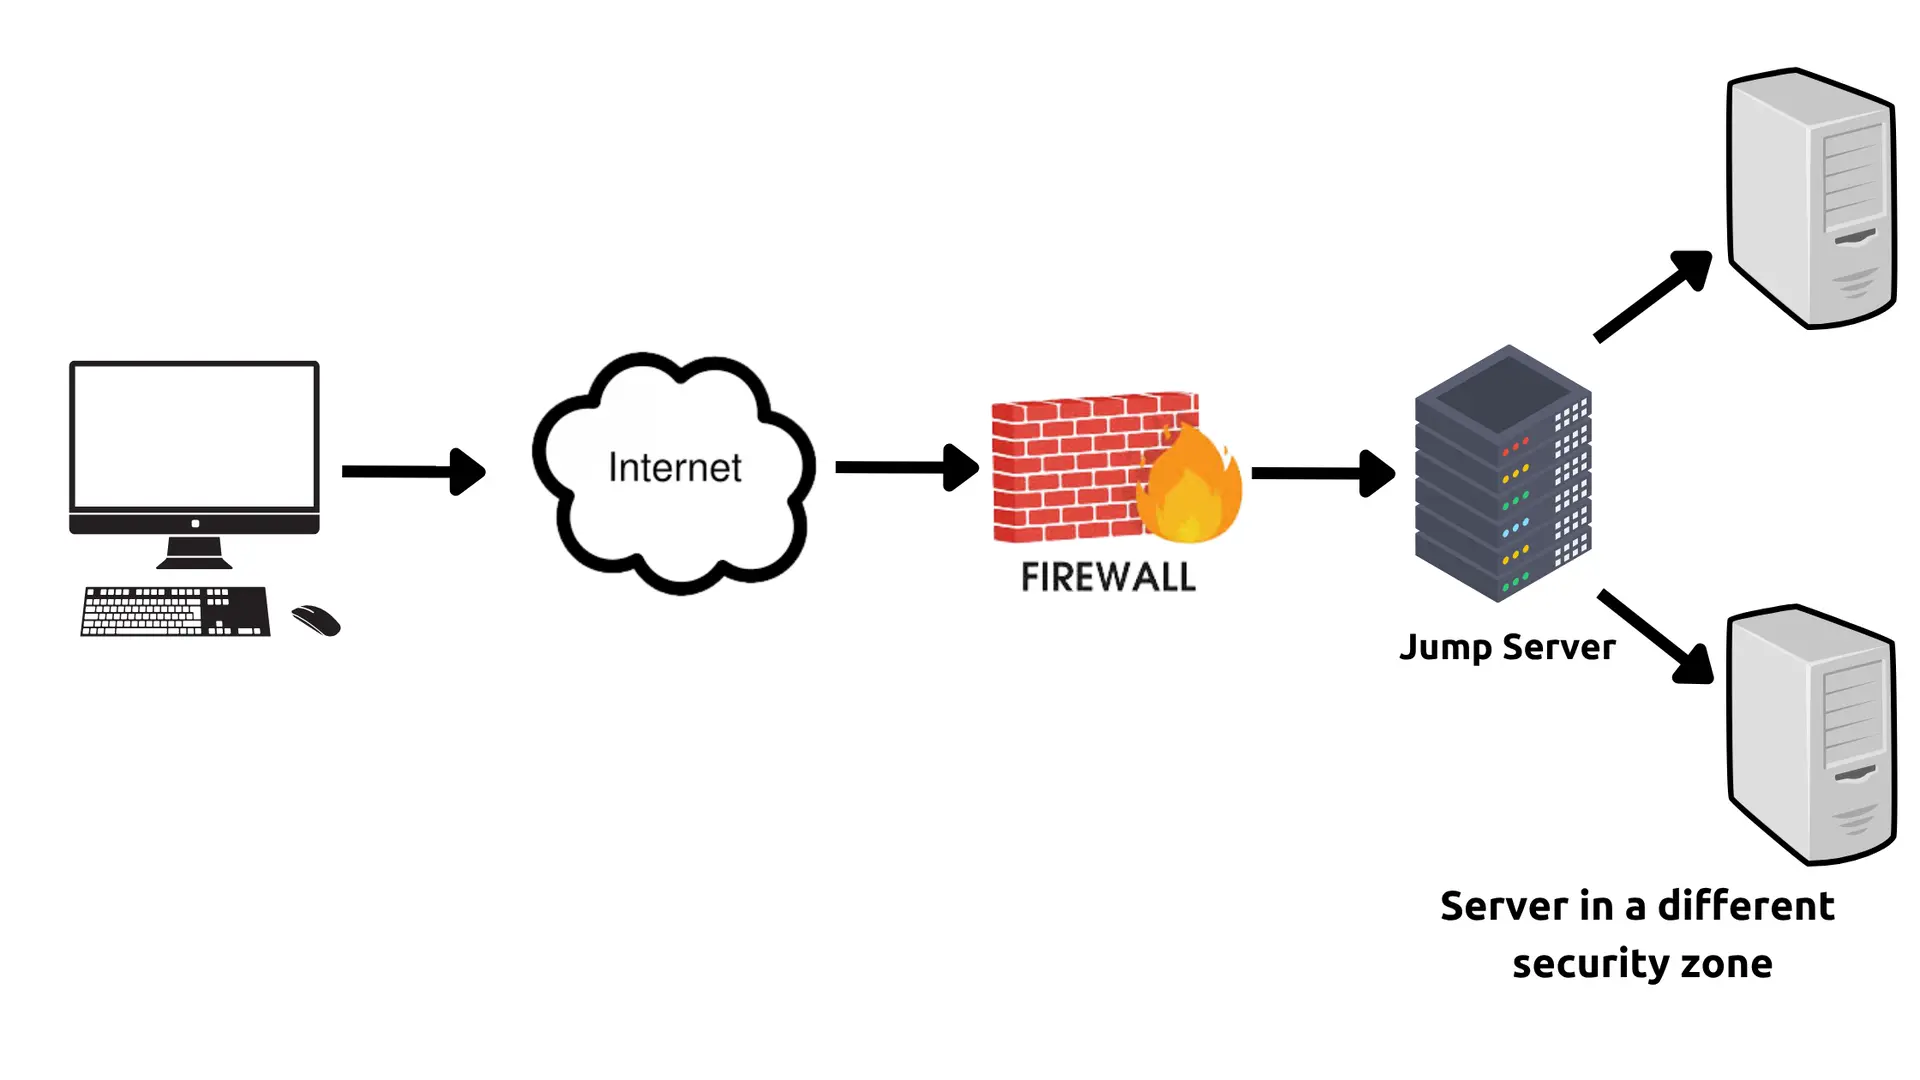
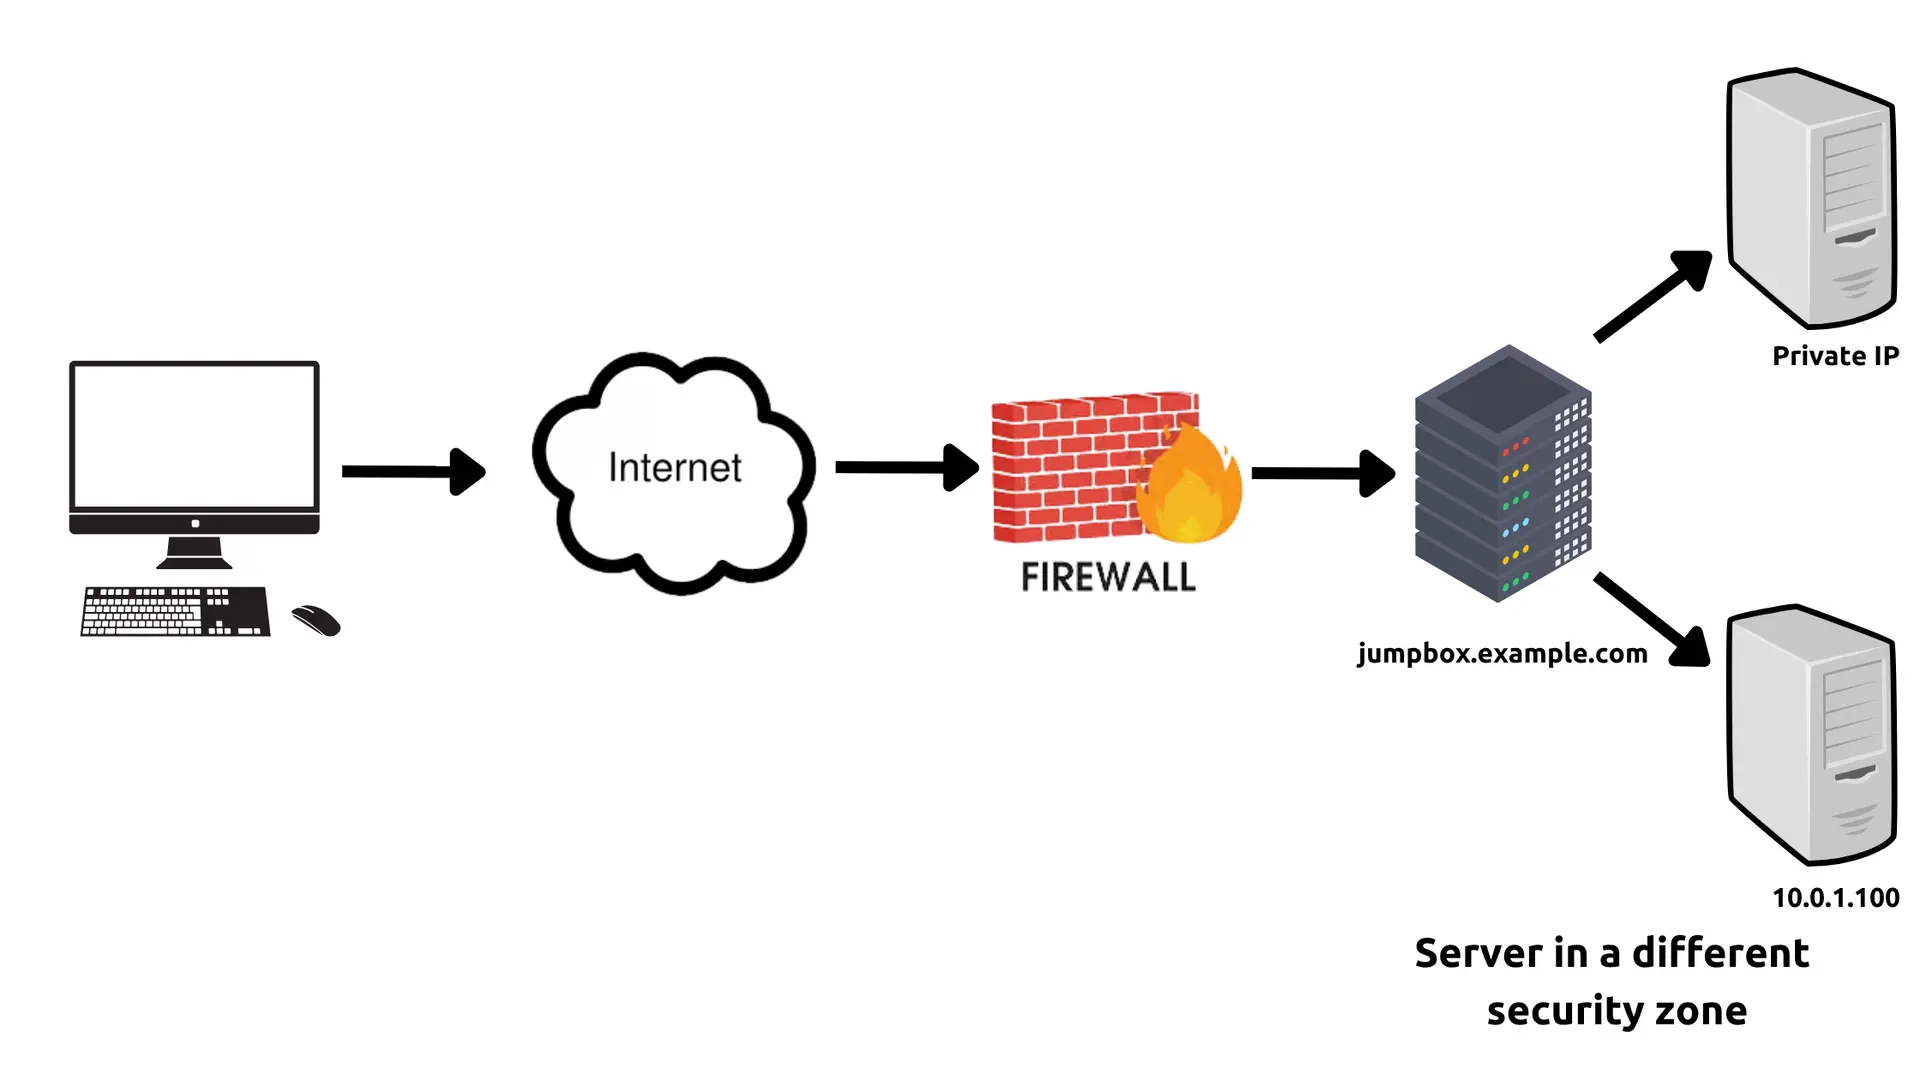
Update "What is a Jumpbox and How it Helps in Remote Access" article with additional use case for IoT device management and relevant guide link

Changed region(s): [[0.7188, 0.825, 1.0, 0.9472], [0.7188, 0.5194, 0.9062, 0.6417], [0.9062, 0.3056, 1.0, 0.3361]]

diff --git a/content/blog/what_is_a_jumpbox_and_how_it_helps_in_remote_access.md b/content/blog/what_is_a_jumpbox_and_how_it_helps_in_remote_access.md
@@ -135,7 +135,7 @@ Jumpboxes are particularly valuable in several scenarios:
 
 While traditional jumpboxes are effective, modern tunneling services like {{< link href="https://pinggy.io" >}}Pinggy{{< /link >}} offer alternative approaches to secure remote access. These services can create secure tunnels without requiring dedicated jumpbox infrastructure, making them particularly useful for development environments and temporary access needs.
 
-Tunneling services provide similar security benefits while reducing the operational overhead of maintaining dedicated jumpbox servers. They're especially valuable when you need quick, secure access to development environments or when traditional jumpbox setup isn't feasible.
+Tunneling services provide similar security benefits while reducing the operational overhead of maintaining dedicated jumpbox servers. They're especially valuable when you need quick, secure access to development environments or when traditional jumpbox setup isn't feasible. For specific use cases like IoT device management, you can explore detailed guides such as {{< link href="https://pinggy.io/docs/guides/ssh_iot/" >}}SSH for IoT devices{{< /link >}} which demonstrates secure remote access patterns for connected devices.
 
 ## Setting Up Your First Jumpbox
 
